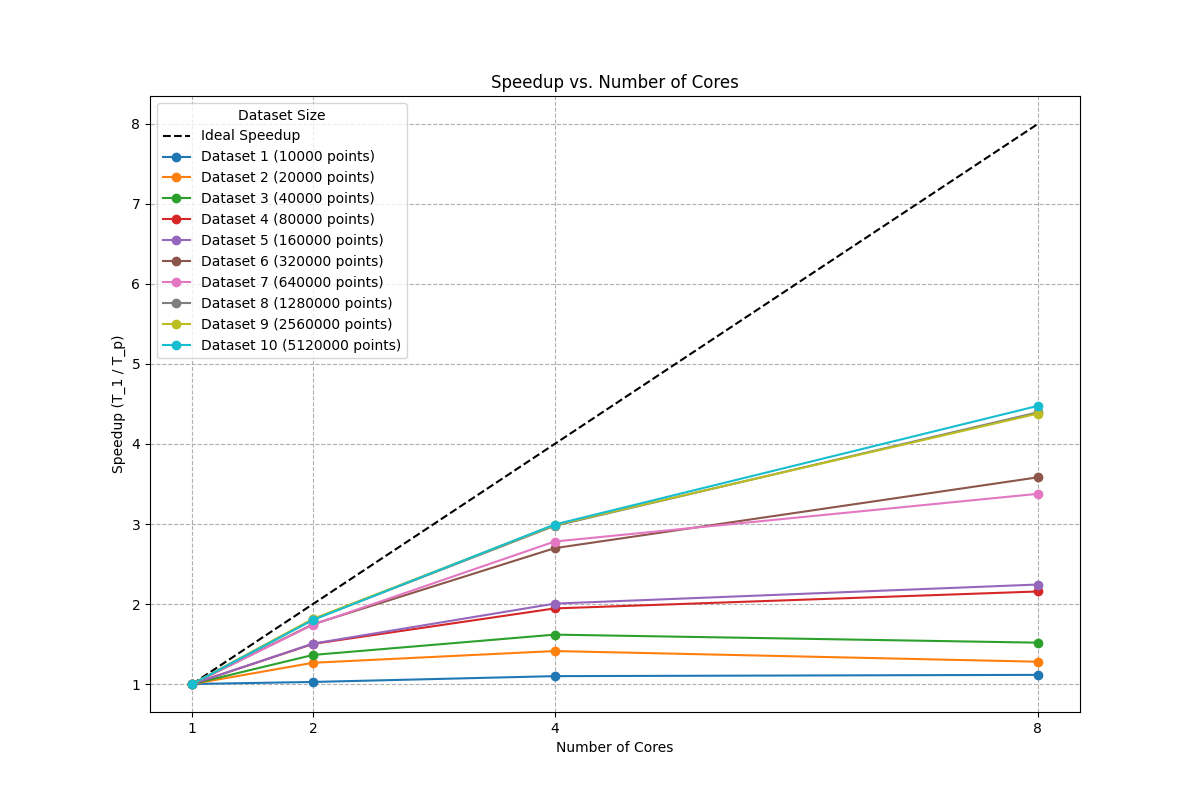
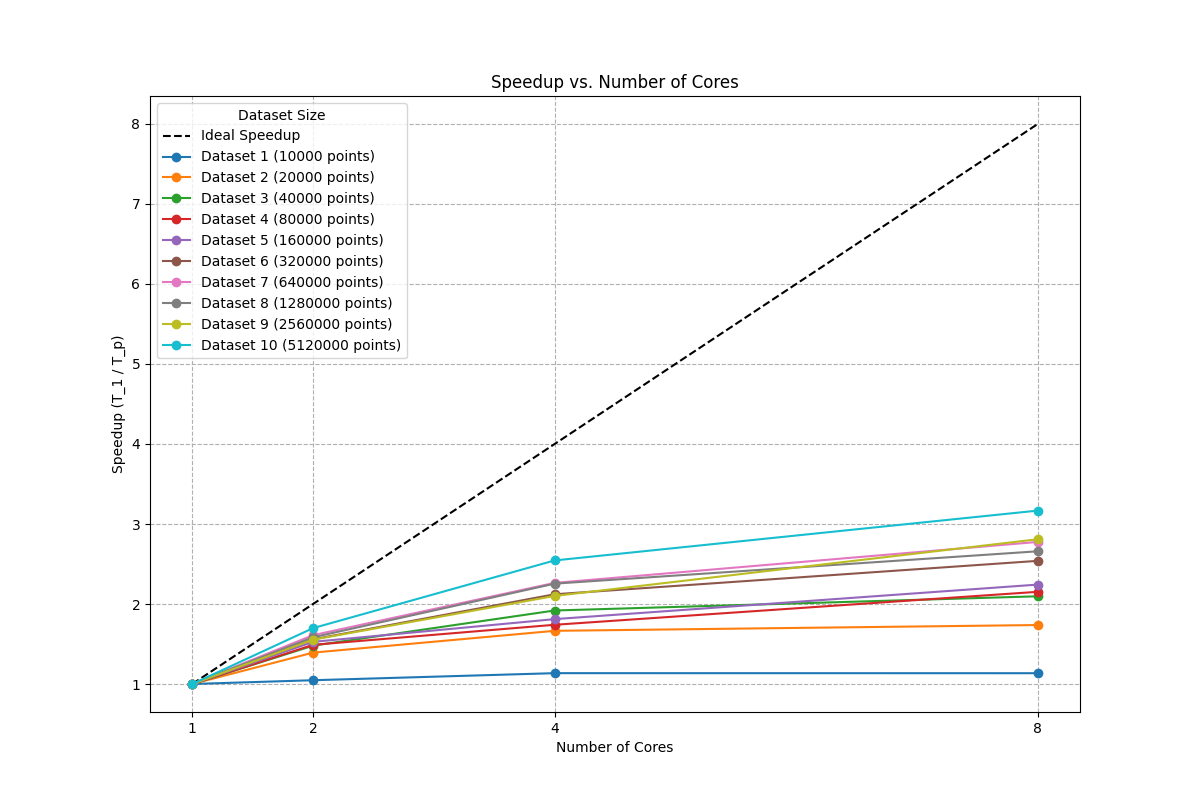
feat: updated analysis

Changed region(s): [[0.1542, 0.5938, 0.8942, 0.875], [0.6475, 0.5, 0.8942, 0.5938]]

diff --git a/Homework-2/kmeans_mapreduce/visualize.py b/Homework-2/kmeans_mapreduce/visualize.py
@@ -1,30 +1,43 @@
 import matplotlib.pyplot as plt
 import numpy as np
 
-# Load data
-points = np.loadtxt('input/sample/points.txt', delimiter=' ')
-centers = np.loadtxt('output/sample/centers.txt', delimiter=' ')
-assignments = np.loadtxt('output/sample/mapping.txt', delimiter=' ', dtype=int)[:,::-1]
+# dataset = "sample"
+dataset = "generated/dataset_10"
+points = np.loadtxt(f"input/{dataset}/points.txt", delimiter=" ")
+centers = np.loadtxt(f"output/{dataset}_cores_8/centers.txt", delimiter=" ")
+assignments = np.loadtxt(f"output/{dataset}_cores_8/mapping.txt", delimiter=" ", dtype=int)[:, ::-1]
 
 # Sort assignments by point ID
 sorted_assignments = assignments[np.argsort(assignments[:, 0]), 1]
 
 # Plot
 plt.figure(figsize=(10, 8))
-colors = ['red', 'blue', 'green', 'purple', 'orange', 'brown']
+colors = ["red", "blue", "green", "purple", "orange", "brown"]
 
 # Plot points colored by cluster
 for cluster in range(len(centers)):
     cluster_points = points[sorted_assignments == cluster]
     if len(cluster_points) > 0:
-        plt.scatter(cluster_points[:, 0], cluster_points[:, 1], 
-                   c=colors[cluster % len(colors)], alpha=0.6, s=20, 
-                   label=f'Cluster {cluster}')
+        plt.scatter(
+            cluster_points[:, 0],
+            cluster_points[:, 1],
+            c=colors[cluster % len(colors)],
+            alpha=0.6,
+            s=20,
+            label=f"Cluster {cluster}",
+        )
 
 # Plot centers
-plt.scatter(centers[:, 0], centers[:, 1], c='black', marker='x', s=200, 
-           linewidth=3, label='Centers')
+plt.scatter(
+    centers[:, 0],
+    centers[:, 1],
+    c="black",
+    marker="x",
+    s=200,
+    linewidth=3,
+    label="Centers",
+)
 
 plt.legend()
-plt.title('K-Means Clustering Results')
+plt.title("K-Means Clustering Results")
 plt.savefig("kmeans_result.png")

diff --git a/Homework-2/kmeans_mapreduce/scripts/run_scaling_tests.py b/Homework-2/kmeans_mapreduce/scripts/run_scaling_tests.py
@@ -9,7 +9,7 @@ KMEANS_BINARY = "./target/release/kmeans_mapreduce"
 OUTPUT_DIR_BASE = "./output/generated"
 TEST_DATA_DIR = "./input/generated"
 RESULTS_CSV = "scaling_results.csv"
-MAX_ITERATIONS = 100
+MAX_ITERATIONS = 10000
 
 core_counts = [1, 2, 4, 8]
 
